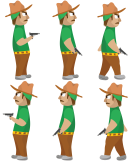
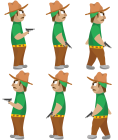
final size of enemies

diff --git a/src/states/preloader.js b/src/states/preloader.js
@@ -28,12 +28,13 @@ class Preloader extends Phaser.State {
     this.game.load.image("target", "assets/target.png");
     this.game.load.spritesheet('snowflakes', 'assets/snowflakes.png', 16, 16);
     this.game.load.spritesheet('snowflakes_large', 'assets/snowflakes_large.png', 64, 64);
-    this.game.load.spritesheet('panda','assets/pandawalk.png', 42, 80.5);
+    this.game.load.spritesheet('panda','assets/pandawalk.png', 41.75,80.5);
     this.game.load.audio('bullet', '../../assets/audio/bullet.mp3');
     this.game.load.image('fire1','../../assets/fire.png');
     //this.game.load.image('fire2',)
-    this.game.load.spritesheet('enemybasic','assets/normalenemy1.png',23.33,42);
-    this.game.load.spritesheet('waveenemy','assets/waveenemy.png',23.33,42);
+    this.game.load.spritesheet('enemybasic','assets/normalenemy1backup.png',39.33,70);
+    this.game.load.spritesheet('waveenemy','assets/waveenemybackup.png',39.33,70);
+    this.game.load.image('waves','assets/waves.png',16,25);
 
   }
 

diff --git a/src/states/cold/waveEnemies.js b/src/states/cold/waveEnemies.js
@@ -1,20 +1,50 @@
 var height = 7000;
 const waveEnemies = [
-	{	
-		position1 : {
-			x : 8100,
-			y : 300
+	{
+		position1: {
+			x: 8100,
+			y: 300
 		},
-		position2 : {
-			x : 8500,
-			y : 10
+		position2: {
+			x: 8500,
+			y: 10
 
+		},//9224.85813017748  619.5
+		vel: {
+			x: 0,
+			y: 0
+		}
+	},
+	{
+		position1:{
+			x:9200,
+			y:620
+		},
+		position2:{
+			x:8900,
+			y:620
 		},
 		vel : {
-			x : 0,
-			y : 0
-		}//,
-	}/*,
+			x:-80,
+			y:0
+		}
+
+	},
+	{//10475.959721893521  700
+		position1:{
+			x:10475,
+			y:700
+		},//10835.59221301773  500.
+		position2 : {
+			x:10835,
+			y:500
+		},
+		vel : {
+			x:0,
+			y:0
+		}
+	}
+	/*,
 
 	{	
 		position1 : {

diff --git a/src/prefabs/snow.js b/src/prefabs/snow.js
@@ -44,9 +44,9 @@ class Snow extends Phaser.Sprite {
 
     this.changeWindDirection();
 
-    this.back_emitter.start(false, 14000, 2);
-    this.mid_emitter.start(false, 12000, 4);
-    this.front_emitter.start(false, 6000, 1);
+    this.back_emitter.start(false, 14000, 10);
+    this.mid_emitter.start(false, 12000, 10);
+    this.front_emitter.start(false, 6000, 10);
   }
 
   //Load operations (uses Loader), method called first

diff --git a/src/prefabs/waveEnemy.js b/src/prefabs/waveEnemy.js
@@ -29,7 +29,7 @@ class WaveEnemy extends Phaser.Sprite {
     this.isShooting = false;
     this.oldVelocity = this.body.velocity.clone();
 
-    this.weapon = game.add.weapon(2, "block2");
+    this.weapon = game.add.weapon(2, "waves");
     this.weapon.bulletKillType = Phaser.Weapon.KILL_CAMERA_BOUNDS;
     this.weapon.bulletSpeed = 700;
     this.weapon.bulletGravity.set(0);

diff --git a/src/states/cold/coldcountry.js b/src/states/cold/coldcountry.js
@@ -158,6 +158,9 @@ class Coldcountry extends Phaser.State {
   //Code ran on each frame of game
   update() {
 
+
+      console.log(this.player.x+"  "+this.player.y);
+
     this.bitmapImg.x = this.game.camera.x;
     this.bitmapImg.y = this.game.camera.y;
         this.player.friction=0;

diff --git a/src/states/cold/enemies.js b/src/states/cold/enemies.js
@@ -54,6 +54,23 @@ const enemies = [
 			x:100,
 			y:0
 		}
+	},
+	{
+		//10070.337461538456  400
+		x:10070,
+		y:400,
+		vel : {
+			x:0,
+			y:0
+		}
+	},
+	{
+		x:3150,
+		y:750,
+		vel : {
+			x:100,
+			y:0
+		}
 	}
 
 ];

diff --git a/src/states/cold/enemyNavs.js b/src/states/cold/enemyNavs.js
@@ -24,6 +24,18 @@ const enemyNavs = [
 		height: 10
 	},
 	{
+		x:3100,
+		y:850,
+		width:10,
+		height:10
+	},
+	{
+		x:3650,
+		y:850,
+		width:10,
+		height:10
+	},
+	{
 		x:3900,
 		y:670,
 		width:10,

diff --git a/src/states/cold/vanishobstacle.js b/src/states/cold/vanishobstacle.js
@@ -24,12 +24,6 @@ const vanish=[
         y:400,
         width:100,
         height:30
-    },
-    {
-        x:10000,
-        y:450,
-        width:130,
-        height:30
     }
 ];
 

diff --git a/src/states/cold/obstacles.js b/src/states/cold/obstacles.js
@@ -202,8 +202,14 @@ const obstacles = [
 		y:550,
 		width:700,
 		height:30
+	}
+	,
+	{
+		x:10000,
+		y:450,
+		width:130,
+		height:30
 	},
-
 	{
 		x:10400,
 		y:750,
